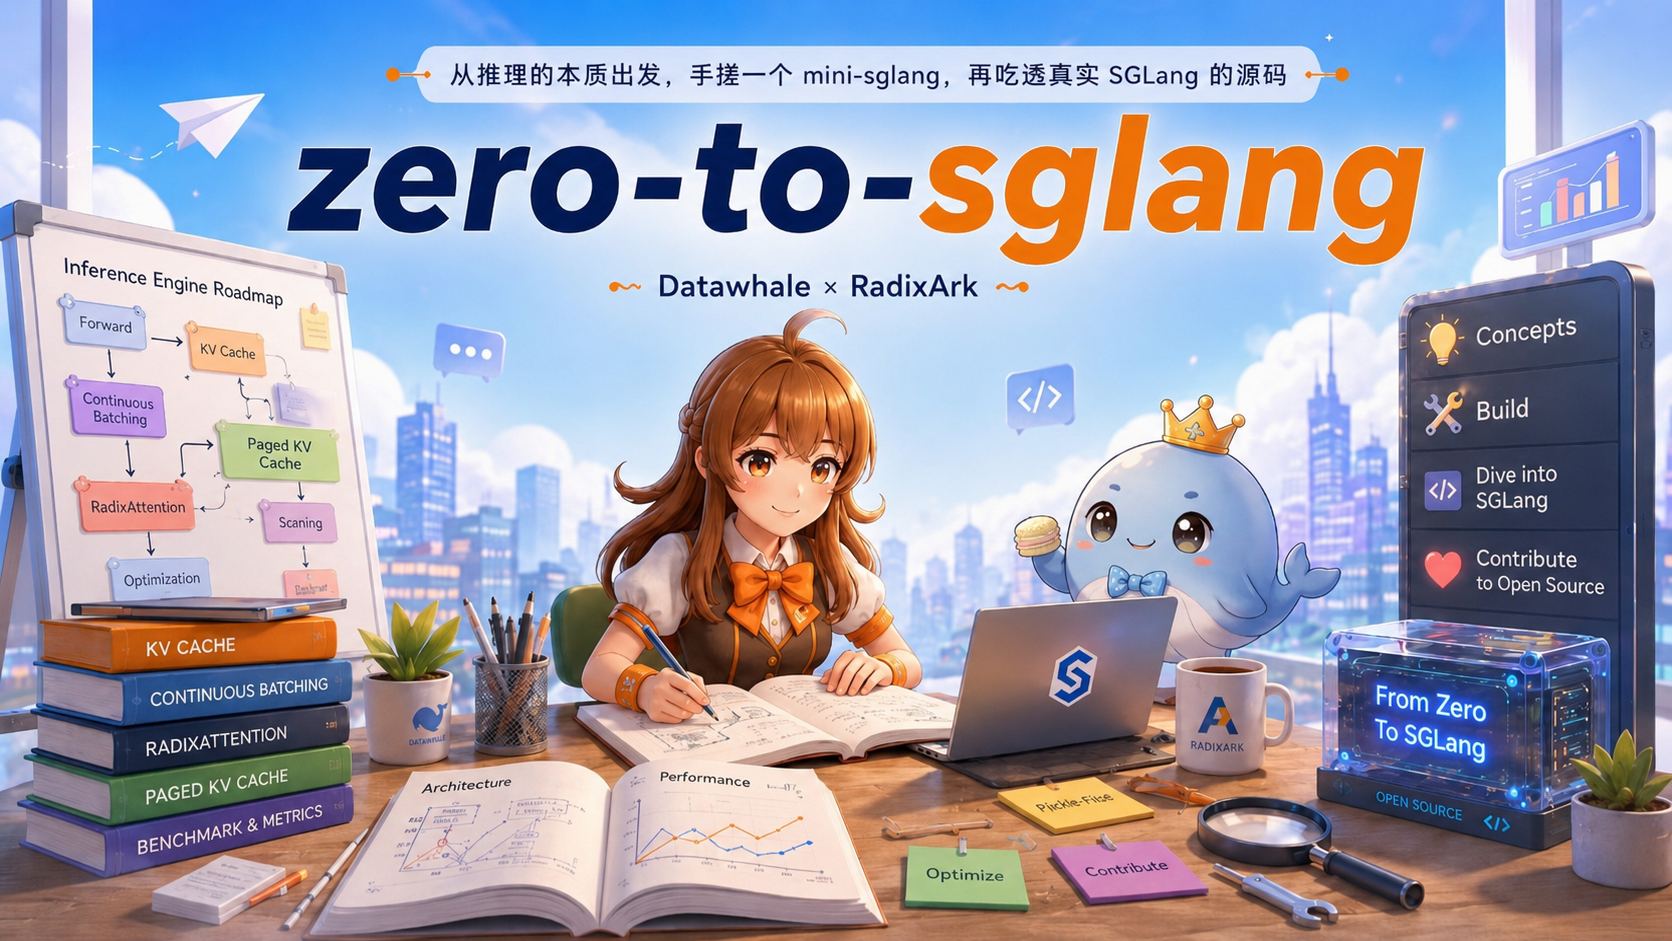
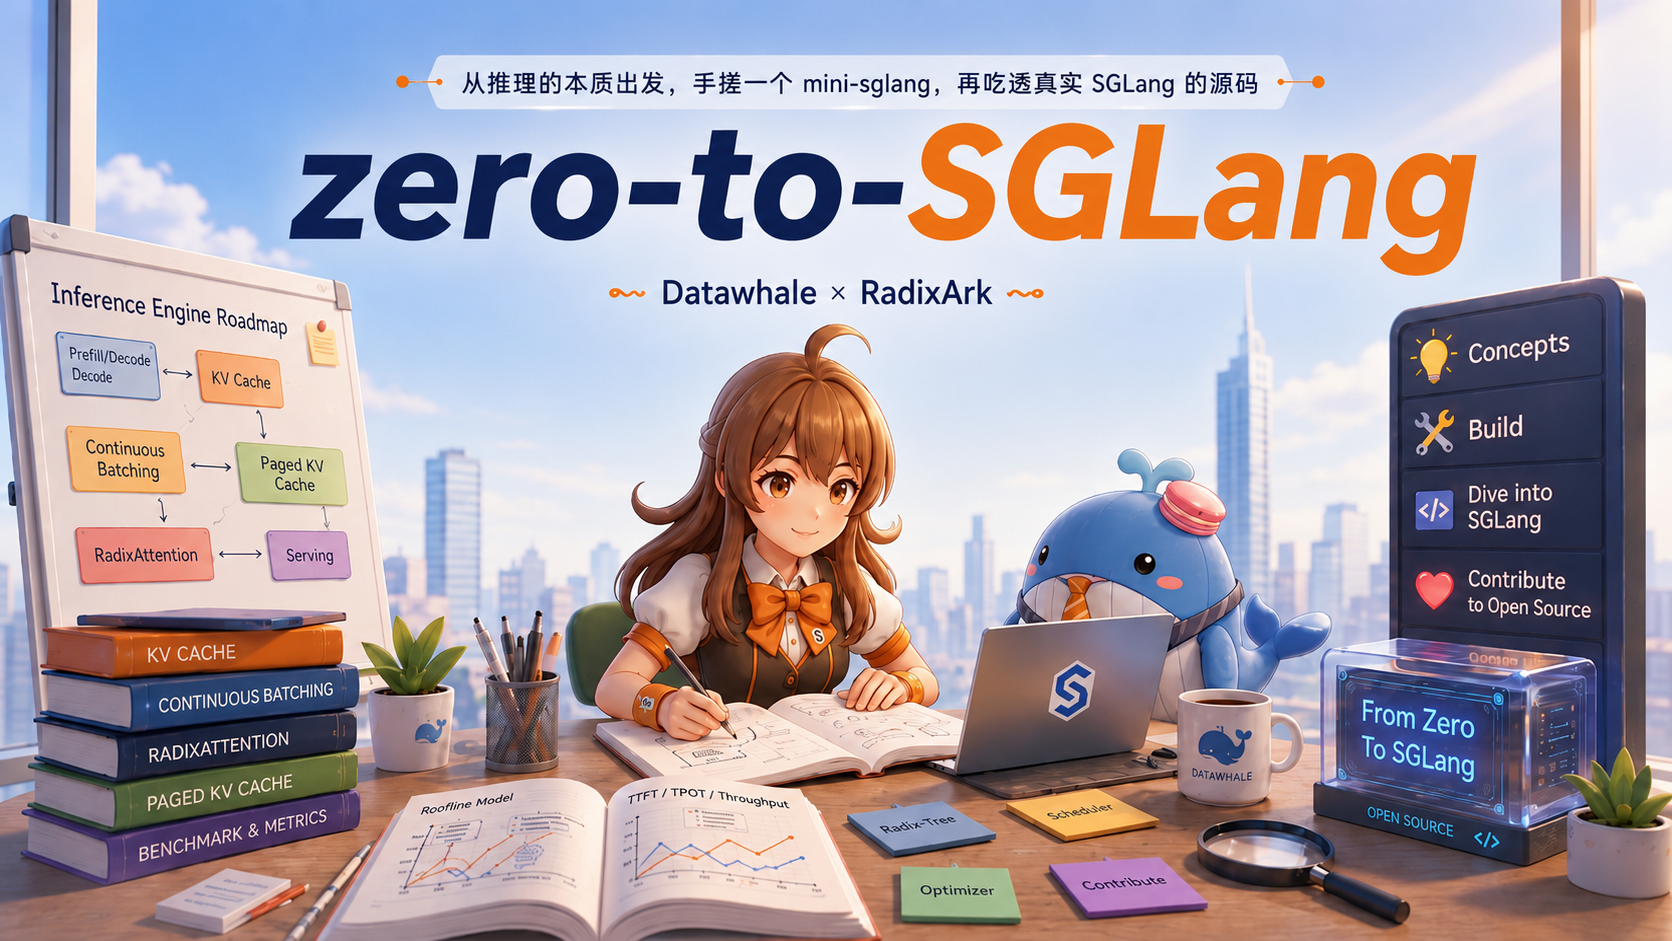
update readme

diff --git a/README.md b/README.md
@@ -27,7 +27,7 @@
 
 &emsp;&emsp;这门课想补上这个缺口。前半部分，我们从推理最核心的问题讲起：KV Cache 为什么要有、prefill 和 decode 差在哪、compute-bound 和 memory-bound 到底是什么意思。中间部分，带着你从零手搓一个 mini-sglang：前向、生成、KV Cache、HTTP 服务、Continuous Batching、Paged KV Cache、RadixAttention，一样一样加上去。后半部分，回到真实的 SGLang，讲清楚它那些前沿优化具体是怎么做的，最后教你怎么给 SGLang 提第一个像样的 PR。
 
-&emsp;&emsp;本项目由 <strong>Datawhale</strong> 和 <strong>RadixArk</strong>（SGLang 团队创立的公司）共同发起，值得信赖。
+&emsp;&emsp;本项目由 <strong>Datawhale</strong> 和 <strong>RadixArk</strong>（SGLang 团队创立的公司）共同发起，值得信赖！SGLang 在推理框架领域技术扎实、迭代活跃，认可这个项目的话，欢迎去 [sglang官方仓库](https://github.com/sgl-project/sglang) 点个 ⭐。
 
 ## ✨ 你能学到什么
 
@@ -44,6 +44,12 @@
 - **数学基础**：线性代数、概率统计，知道矩阵运算和注意力机制的大致计算即可
 - **GPU 编程（可选）**：了解 CUDA 基础概念会更好，不懂也没关系，Part I 会从零补齐
 - **硬件（可选）**：Part I 不需要 GPU；Part II 大部分内容能在 CPU 上调试，完整的实现和性能测试建议用 GPU（云服务也行）
+
+## 🔗 相关链接
+
+- **仓库地址**：https://github.com/datawhalechina/zero-to-sglang
+- **SGLang 官方**：https://github.com/sgl-project/sglang
+- **mini-sglang 参考实现**：https://github.com/sgl-project/mini-sglang
 
 ## 📖 课程目录
 
@@ -155,12 +161,6 @@ zero-to-sglang/
 - ✍ <strong>分享实践</strong>：分享你的学习笔记、benchmark 复现与实践经验
 
 > 贡献之前，请先读一遍 [Part 0](docs/part0/Part0-编码伦理与开源精神.md)，了解我们期望的编码伦理与开源精神。
-
-## 🔗 相关链接
-
-- **仓库地址**：https://github.com/datawhalechina/zero-to-sglang
-- **SGLang 官方**：https://github.com/sgl-project/sglang
-- **mini-sglang 参考实现**：https://github.com/sgl-project/mini-sglang
 
 
 ## ❓ 常见问题
